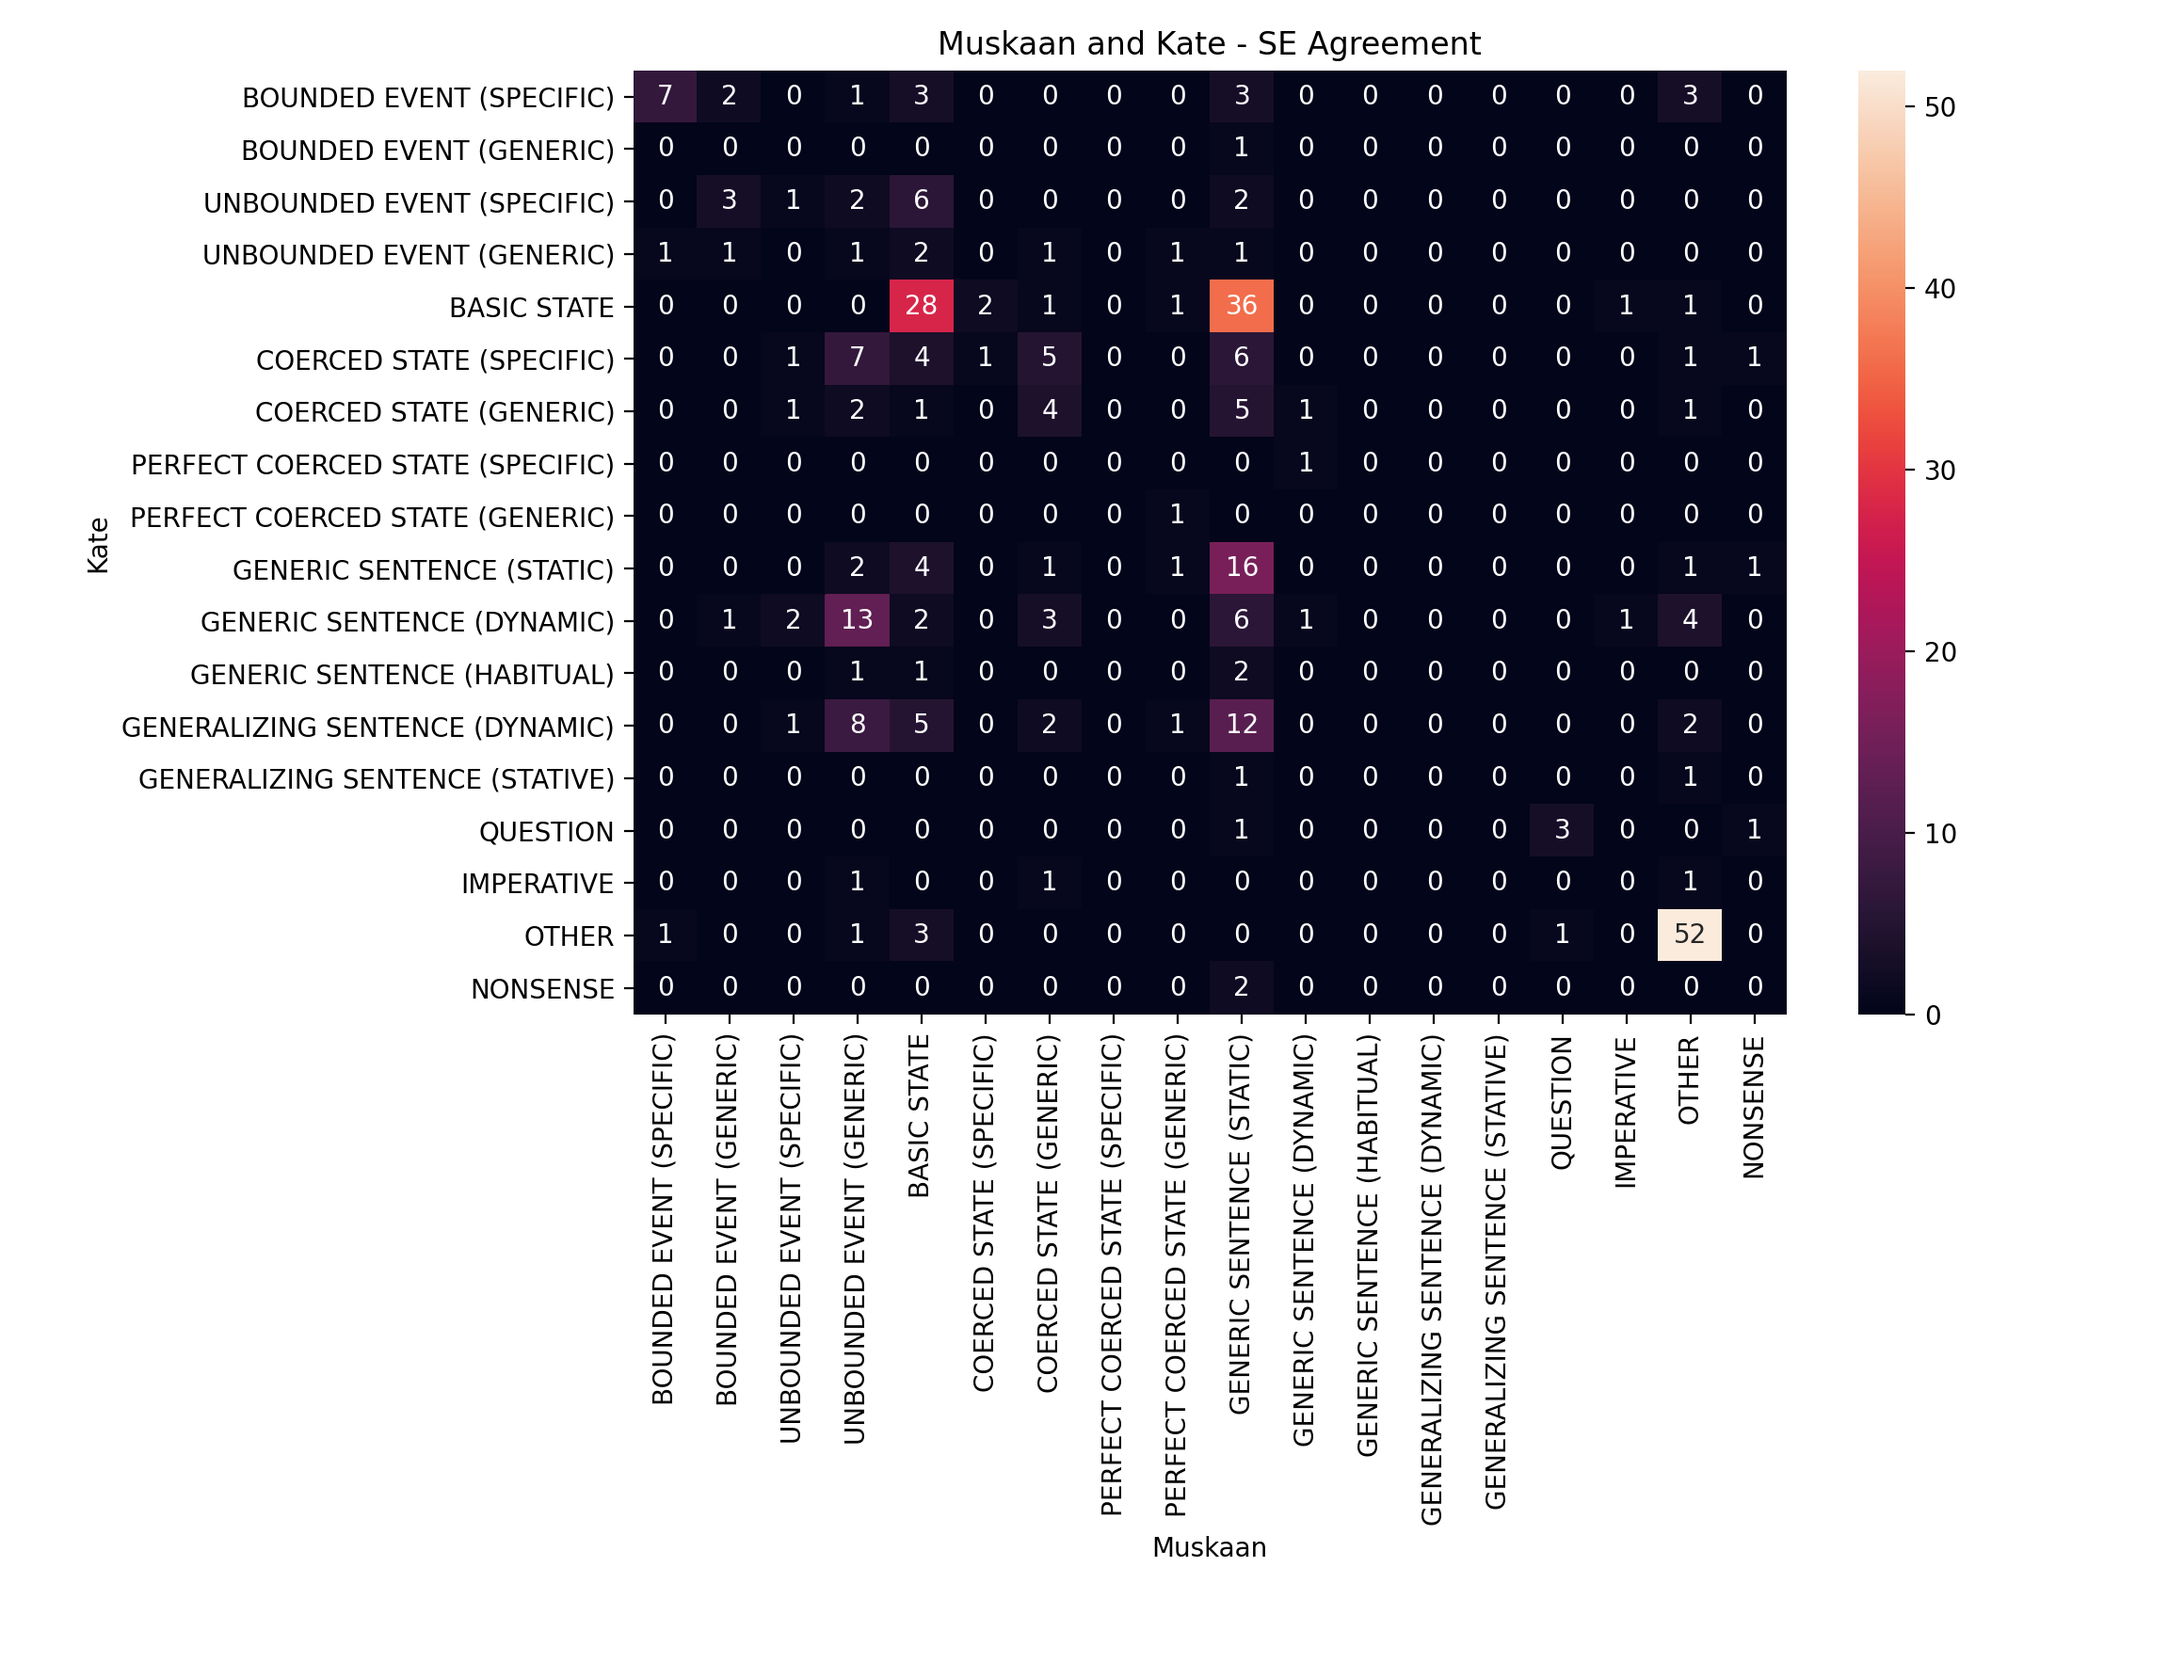
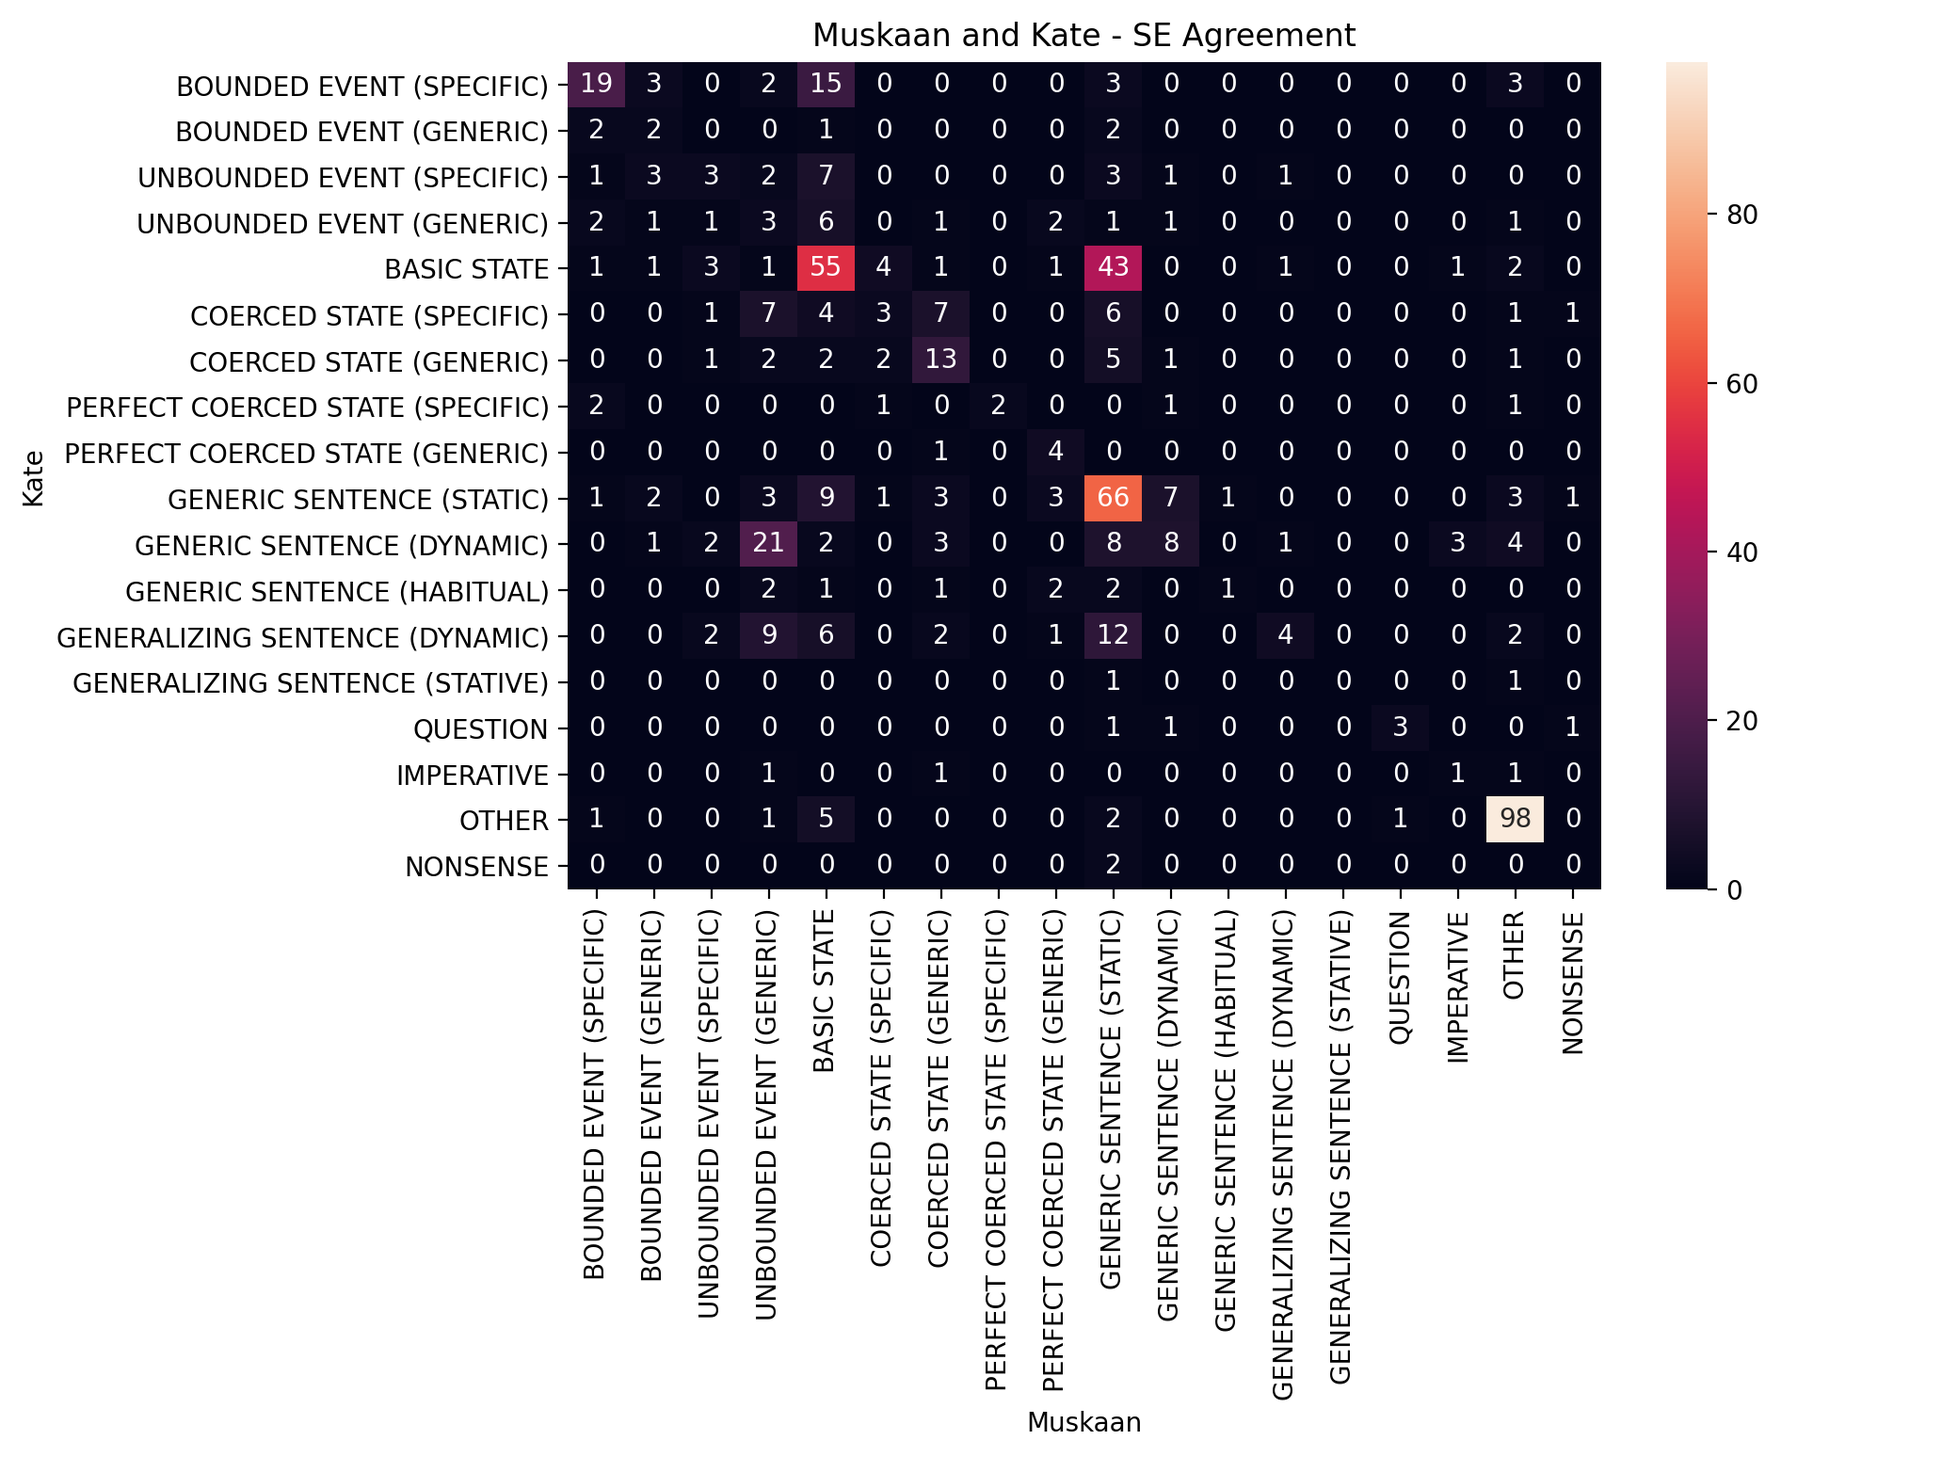
more shared docs from Kate

diff --git a/agreement_SE.py b/agreement_SE.py
@@ -12,7 +12,7 @@ from clean_up_SE_coh import valid_full_SE_types
 
 # Overall macros for the file
 remove_low_confidence = False
-friedrich_palmer_mappings = True
+friedrich_palmer_mappings = False
 
 # First, extract all of the SE types and coh relations and put into containers.
 

diff --git a/agreement_coh.py b/agreement_coh.py
@@ -15,7 +15,7 @@ boundaries_lenient = True
 ignore_elab_disagreements = True
 elab_blobs_on = True
 remove_low_confidence = True
-confusion_matrix_simple = False
+confusion_matrix_simple = True
 
 # First, extract all of the SE types and coh relations and put into containers.
 
